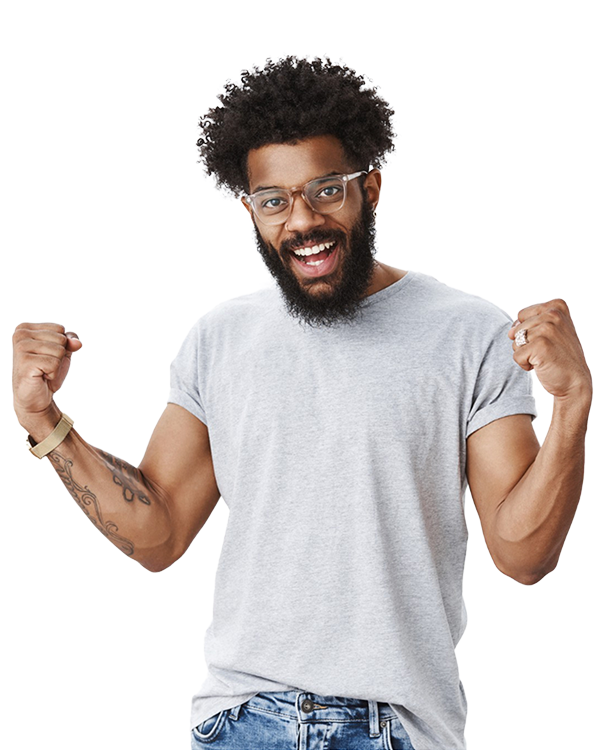
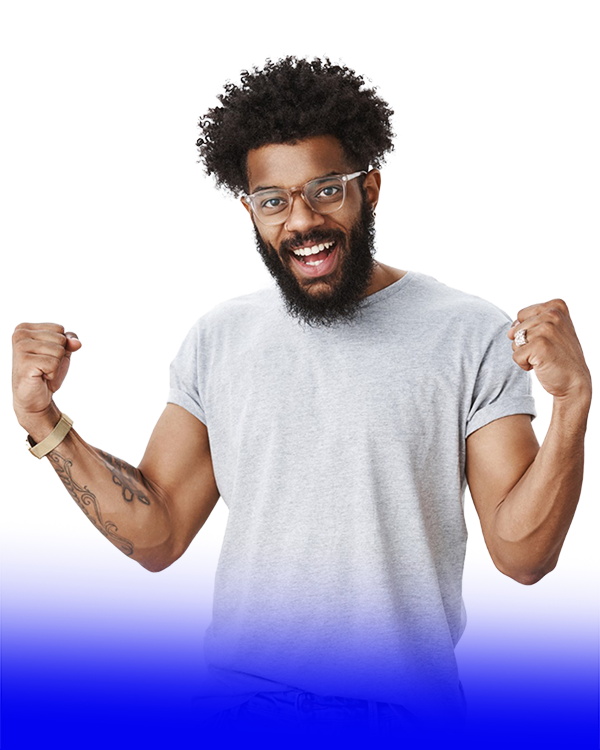
typewritter effect added. Careers section started.

diff --git a/scss/index.scss b/scss/index.scss
@@ -1,6 +1,7 @@
-$primaryColor: blue;
+$primaryColor: #0404f1;
 $accentColor: #e4c580;
 $secondColor: white;
+$darkColor: black;
 $textColor: (
   "primary": white,
   "secondary": black,
@@ -19,6 +20,7 @@ $fontSize: (
 @import "./header";
 
 body {
+  height: 100%;
   background-color: $secondColor;
   //   padding: 0 5em;
   margin: 0;
@@ -45,17 +47,22 @@ h1 {
   color: $accentColor;
 }
 
+section {
+  width: 100%;
+}
+
 .heroSection {
   height: 45rem;
   background-color: $primaryColor;
   padding: 0 5rem;
   display: flex;
-  justify-content: space-around;
-  align-items: stretch;
-  align-content: center;
+  justify-content: space-between;
+  // justify-content: space-between;
+  // align-items: center;
 
+  overflow: hidden;
   & .introImage {
-    height: 100%;
+    //height: 100%;
   }
 
   & input {
@@ -78,7 +85,33 @@ h1 {
 
 .heroImageCont {
   display: flex;
+  flex-direction: column;
   justify-content: center;
+  align-items: center;
+  align-content: center;
+
+  & img {
+    z-index: 1;
+  }
+}
+
+.blueHue {
+  width: 400px;
+  height: 400px;
+  border-radius: 200px;
+  background: rgb(2, 0, 36);
+  background: radial-gradient(
+    circle,
+    rgba(2, 0, 36, 1) 0%,
+    rgba(5, 5, 251, 1) 35%,
+    rgba(255, 255, 255, 1) 100%
+  );
+  position: absolute;
+}
+
+.heroCurvedSvg {
+  display: block;
+  width: 100%;
 }
 
 .subscribeBtn {
@@ -101,11 +134,35 @@ h1 {
   }
 }
 
+//Testimonial section Styling begins
+
+.careersSection {
+  height: 80rem;
+  display: flex;
+  flex-wrap: wrap;
+  padding: 10px;
+  background-color: $secondColor;
+  //margin-top: -300px;
+  margin-bottom: 100px;
+
+  justify-content: space-evenly;
+  align-items: center;
+  align-content: space-evenly;
+  & div {
+    background-color: $primaryColor;
+    width: 450px;
+    height: 500px;
+    border-radius: 25px;
+  }
+}
+
+//Testimonial section Styling ends
+
 footer {
   height: 5rem;
   background-color: $primaryColor;
-  margin-top: 1rem;
-  position: fixed;
+  margin-top: 10rem;
+  //position: fixed;
   bottom: 0;
   left: 0;
   width: 100%;

diff --git a/scss/index.css b/scss/index.css
@@ -3,7 +3,7 @@ header {
   background-color: white;
 }
 header.topic {
-  color: blue;
+  color: #0404f1;
   padding: 1rem 5rem;
   font-size: xx-large;
   font-weight: 900;
@@ -17,6 +17,7 @@ header.topic {
 }
 
 body {
+  height: 100%;
   background-color: white;
   margin: 0;
   box-sizing: border-box;
@@ -39,17 +40,17 @@ h1 {
   color: #e4c580;
 }
 
+section {
+  width: 100%;
+}
+
 .heroSection {
   height: 45rem;
-  background-color: blue;
+  background-color: #0404f1;
   padding: 0 5rem;
   display: flex;
-  justify-content: space-around;
-  align-items: stretch;
-  align-content: center;
-}
-.heroSection .introImage {
-  height: 100%;
+  justify-content: space-between;
+  overflow: hidden;
 }
 .heroSection input {
   height: 50px;
@@ -72,7 +73,27 @@ h1 {
 
 .heroImageCont {
   display: flex;
+  flex-direction: column;
   justify-content: center;
+  align-items: center;
+  align-content: center;
+}
+.heroImageCont img {
+  z-index: 1;
+}
+
+.blueHue {
+  width: 400px;
+  height: 400px;
+  border-radius: 200px;
+  background: rgb(2, 0, 36);
+  background: radial-gradient(circle, rgb(2, 0, 36) 0%, rgb(5, 5, 251) 35%, rgb(255, 255, 255) 100%);
+  position: absolute;
+}
+
+.heroCurvedSvg {
+  display: block;
+  width: 100%;
 }
 
 .subscribeBtn {
@@ -101,11 +122,28 @@ h1 {
     border-color: transparent;
   }
 }
+.careersSection {
+  height: 80rem;
+  display: flex;
+  flex-wrap: wrap;
+  padding: 10px;
+  background-color: white;
+  margin-bottom: 100px;
+  justify-content: space-evenly;
+  align-items: center;
+  align-content: space-evenly;
+}
+.careersSection div {
+  background-color: #0404f1;
+  width: 450px;
+  height: 500px;
+  border-radius: 25px;
+}
+
 footer {
   height: 5rem;
-  background-color: blue;
-  margin-top: 1rem;
-  position: fixed;
+  background-color: #0404f1;
+  margin-top: 10rem;
   bottom: 0;
   left: 0;
   width: 100%;

diff --git a/Src/index.html b/Src/index.html
@@ -15,7 +15,7 @@
       <div class="flex-Half wrapper">
         <h3>All the resources you need to become anything you wish!</h3>
         <h1 class="intro">
-          Welcome to 2022 Roadmap to become <br />
+          Welcome to 2022 Roadmap to become<br />
           <span class="dynamic"></span>
         </h1>
         <p>
@@ -26,9 +26,30 @@
         <button class="subscribeBtn">Subscribe</button>
       </div>
       <div class="heroImageCont flex-Half">
+        <div class="blueHue"></div>
+
         <img class="introImage" src="happy-man-cutout.png" />
       </div>
     </section>
+    <svg xmlns="http://www.w3.org/2000/svg" viewBox="0 0 1440 319">
+      <path
+        fill="#0404f1"
+        fill-opacity="1"
+        d="M0,32L48,64C96,96,192,160,288,181.3C384,203,480,181,576,154.7C672,128,768,96,864,101.3C960,107,1056,149,1152,149.3C1248,149,1344,107,1392,85.3L1440,64L1440,0L1392,0C1344,0,1248,0,1152,0C1056,0,960,0,864,0C768,0,672,0,576,0C480,0,384,0,288,0C192,0,96,0,48,0L0,0Z"
+      ></path>
+    </svg>
+
+    <section class="careersSection">
+      <div class="career"></div>
+      <div class="career"></div>
+      <div class="career"></div>
+      <div class="career"></div>
+      <div class="career"></div>
+      <div class="career"></div>
+      <div class="career"></div>
+      <div class="career"></div>
+    </section>
+
     <footer>Copyrights © AnatuGreen 2022</footer>
     <script type="text/javascript" src="index.js"></script>
   </body>
